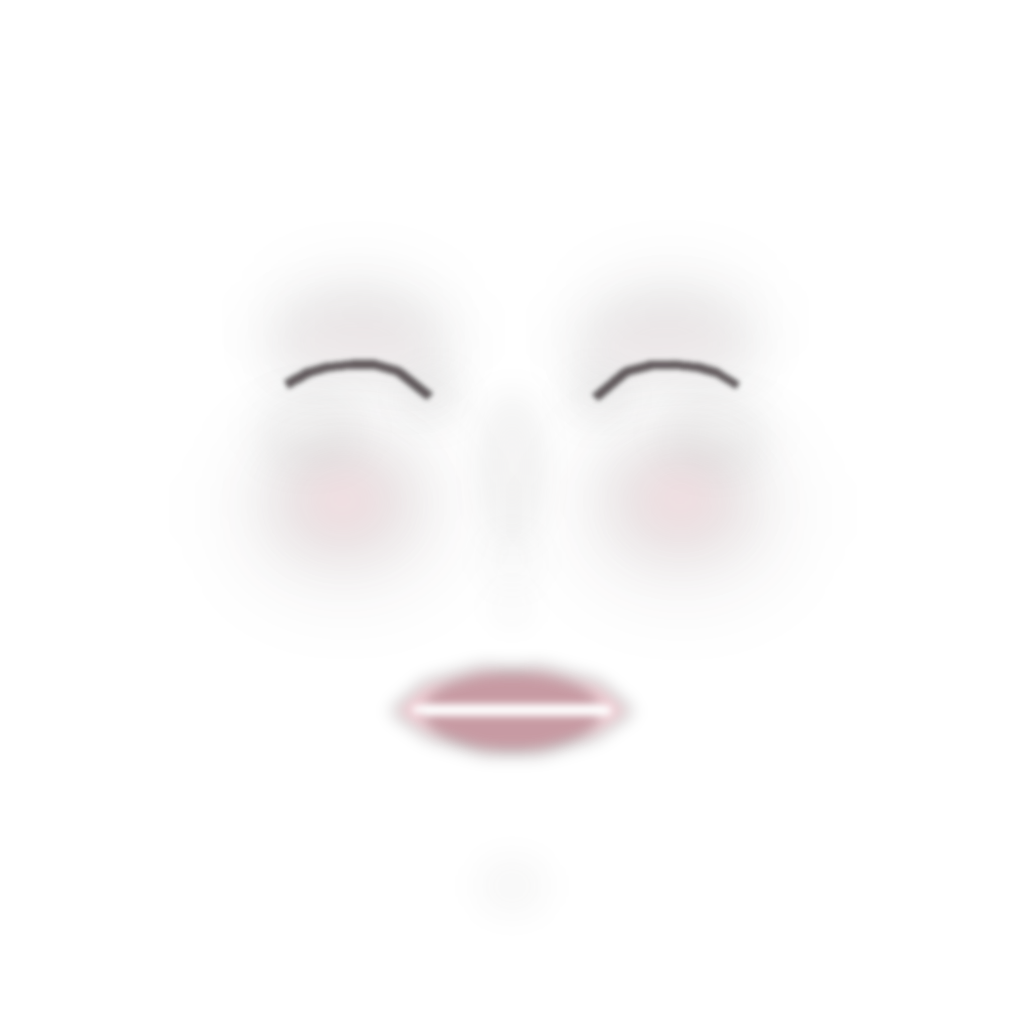
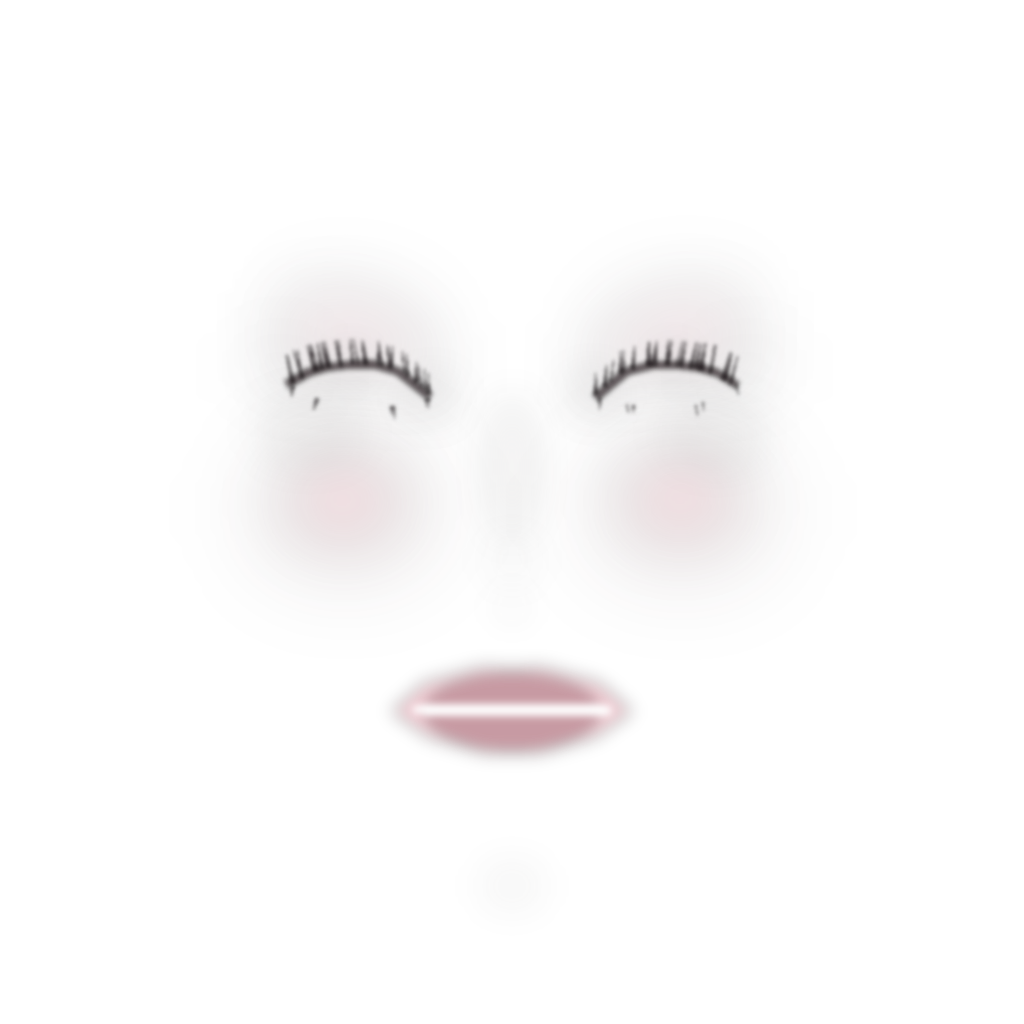
makeup: retune rail plates for realism + 20 reference-driven looks
Retuned coquette/goth/peach/cold_beauty/sunset/angel/hearts_freckles
(added missing lash layers, outer-V depth, shimmer). New realistic
skin-matching collection from the mup/ reference dump: korean_dewy,
chinese_classic, indian_bridal, bollywood, latina_glam, chola, pinup,
arab_kohl, siren_night, fox_eye, doe_eye, y2k_glow, nineties_brown,
eighties_pop, seventies_sun, cut_crease, halo_eye, editorial_violet,
soft_bridal, tribal_earth. All translucent mid-luma layered pigment for
the luminance-transfer blend (no opaque foundation washes).

Changed region(s): [[0.2812, 0.3125, 0.4375, 0.4062], [0.5625, 0.3125, 0.7188, 0.4062]]

diff --git a/tools/gen_makeup_elements.py b/tools/gen_makeup_elements.py
@@ -685,8 +685,12 @@ LOOKS = {
     ],
     'coquette': [
         ('blush', dict(style='cheeks', color=(255, 140, 160), alpha=48)),
-        ('shadow', S(lid=((225, 160, 175), 45), crease=((205, 135, 150), 38), inner=((255, 240, 245), 40))),
+        ('shadow', S(lid=((225, 160, 175), 45), crease=((205, 135, 150), 38),
+                     outer=((190, 115, 135), 32), inner=((255, 240, 245), 40),
+                     shimmer=((255, 246, 250), 26))),
         ('liner', dict(style='soft', alpha=170)),
+        ('lashes', dict(strength=0.7, style='doll')),
+        ('lashes', dict(strength=0.3, style='wispy', lower=True)),
         ('aegyo', dict(alpha=15)),
         ('lip', dict(style='bitten', color=(210, 80, 105), alpha=85)),
         ('highlight', dict(style='satin', color=(255, 250, 245), alpha=42)),
@@ -694,16 +698,21 @@ LOOKS = {
     'goth': [
         ('contour', dict(style='cool', alpha=45)),
         ('blush', dict(style='cheeks', color=(140, 70, 90), alpha=35)),
-        ('shadow', S(lid=((70, 40, 66), 95), crease=((50, 25, 45), 85), outer=((40, 18, 35), 75), inner=((160, 140, 155), 35))),
+        ('shadow', S(lid=((70, 40, 66), 95), crease=((50, 25, 45), 85), outer=((40, 18, 35), 75), inner=((160, 140, 155), 35),
+                     lower=((45, 22, 40), 60))),
         ('liner', dict(style='graphic', alpha=240)),
+        ('lashes', dict(strength=0.9, style='stage')),
+        ('lashes', dict(strength=0.35, style='wispy', lower=True)),
         ('brow', dict(color=(60, 45, 55), alpha=90, width=0.075)),
         ('lip', dict(style='matte', color=(58, 12, 32), alpha=170)),
         ('highlight', dict(style='pearl', color=(200, 190, 200), alpha=35)),
     ],
     'peach': [
         ('blush', dict(style='cheeks', color=(255, 140, 96), alpha=55)),
-        ('shadow', S(lid=((240, 160, 110), 48), crease=((220, 135, 90), 40), inner=((255, 240, 225), 40), shimmer=((255, 245, 235), 25))),
+        ('shadow', S(lid=((240, 160, 110), 48), crease=((220, 135, 90), 40),
+                     outer=((200, 115, 75), 34), inner=((255, 240, 225), 40), shimmer=((255, 245, 235), 25))),
         ('liner', dict(style='soft', alpha=175)),
+        ('lashes', dict(strength=0.6, style='wispy')),
         ('lip', dict(style='full', color=(245, 110, 80), alpha=100)),
         ('highlight', dict(style='satin', color=(255, 240, 220), alpha=45)),
     ],
@@ -712,6 +721,7 @@ LOOKS = {
         ('blush', dict(style='cheeks', color=(210, 160, 175), alpha=36)),
         ('shadow', S(lid=((150, 140, 160), 48), crease=((120, 110, 135), 40), outer=((100, 90, 115), 35), inner=((220, 215, 230), 40))),
         ('liner', dict(style='tightline', alpha=160)),
+        ('lashes', dict(strength=0.5, style='wispy')),
         ('brow', dict(color=(55, 45, 50), alpha=95, width=0.065)),
         ('lip', dict(style='matte', color=(150, 70, 80), alpha=105)),
         ('highlight', dict(style='pearl', color=(240, 235, 245), alpha=45)),
@@ -720,6 +730,7 @@ LOOKS = {
         ('blush', dict(style='band', color=(255, 120, 70), alpha=52)),
         ('shadow', S(lid=((235, 120, 60), 70), crease=((210, 95, 45), 58), outer=((180, 75, 35), 50), inner=((255, 230, 200), 45), shimmer=((255, 245, 220), 35))),
         ('liner', dict(style='wing', alpha=200)),
+        ('lashes', dict(strength=0.8, style='cat')),
         ('lip', dict(style='full', color=(210, 80, 55), alpha=105)),
         ('highlight', dict(style='satin', color=(255, 220, 170), alpha=52)),
     ],
@@ -728,6 +739,8 @@ LOOKS = {
         ('aegyo', dict(alpha=20)),
         ('shadow', S(lid=((240, 210, 220), 42), crease=((225, 185, 195), 35), inner=((255, 245, 248), 45), shimmer=((255, 255, 255), 35))),
         ('liner', dict(style='soft', alpha=165)),
+        ('lashes', dict(strength=0.55, style='wispy')),
+        ('lashes', dict(strength=0.25, style='wispy', lower=True)),
         ('brow', dict(color=(70, 50, 50), alpha=80, width=0.060)),
         ('lip', dict(style='gloss', color=(230, 130, 145), alpha=70)),
         ('highlight', dict(style='satin', color=(255, 250, 245), alpha=64)),
@@ -754,9 +767,257 @@ LOOKS = {
         ('freckles', dict(density=1.0, color=(170, 90, 80), alpha=95)),
         ('shadow', S(lid=((225, 140, 155), 45), crease=((205, 115, 130), 38), inner=((255, 240, 245), 40))),
         ('liner', dict(style='wing', alpha=200)),
+        ('lashes', dict(strength=0.7, style='doll')),
         ('aegyo', dict(alpha=14)),
         ('lip', dict(style='bitten', color=(225, 75, 95), alpha=92)),
         ('highlight', dict(style='satin', color=(255, 250, 245), alpha=45)),
+    ],
+
+    # ── realistic reference-driven collection (mup/ references) ─────────────
+    # All translucent, mid-luma, layered — the engine's luminance-transfer
+    # blend adapts pigment to the wearer's skin (no opaque foundation washes).
+    'korean_dewy': [   # 01: K-beauty — dewy base, straight soft brow, gradient coral lip
+        ('blush', dict(style='cheeks', color=(255, 150, 140), alpha=35)),
+        ('aegyo', dict(alpha=16)),
+        ('shadow', S(lid=((225, 170, 160), 40), crease=((205, 145, 140), 30),
+                     inner=((255, 245, 240), 40), shimmer=((255, 250, 245), 25))),
+        ('liner', dict(style='tightline', color=(60, 40, 36), alpha=150)),
+        ('lashes', dict(strength=0.5, style='wispy')),
+        ('brow', dict(color=(80, 60, 50), alpha=70, width=0.050, density=0.45)),
+        ('lip', dict(style='blurred', color=(230, 110, 100), alpha=95)),
+        ('highlight', dict(style='glass', color=(255, 250, 248), alpha=55)),
+    ],
+    'chinese_classic': [   # 03: porcelain base, precise wing, red lip
+        ('contour', dict(style='soft', alpha=25, areas=['cheek', 'nose'])),
+        ('blush', dict(style='lifted', color=(230, 130, 120), alpha=28)),
+        ('shadow', S(lid=((210, 170, 155), 35), crease=((185, 140, 125), 28),
+                     inner=((250, 240, 235), 38))),
+        ('liner', dict(style='wing', alpha=230)),
+        ('lashes', dict(strength=0.8, style='cat')),
+        ('brow', dict(color=(60, 45, 40), alpha=100, width=0.060, density=0.6)),
+        ('lip', dict(style='satin', color=(190, 30, 45), alpha=140,
+                     liner_color=(140, 18, 32))),
+        ('highlight', dict(style='satin', color=(255, 248, 245), alpha=40)),
+    ],
+    'indian_bridal': [   # 07: gold/rust shadow, kohl rim, red lip
+        ('contour', dict(style='warm', alpha=40)),
+        ('blush', dict(style='cheeks', color=(230, 120, 105), alpha=40)),
+        ('shadow', S(lid=((230, 180, 90), 65), crease=((190, 110, 60), 55),
+                     outer=((150, 80, 45), 45), inner=((255, 240, 200), 45),
+                     shimmer=((255, 230, 160), 40), lower=((60, 40, 40), 55))),
+        ('liner', dict(style='wing', alpha=235)),
+        ('lashes', dict(strength=1.0, style='stage')),
+        ('lashes', dict(strength=0.35, style='wispy', lower=True)),
+        ('brow', dict(color=(55, 38, 32), alpha=120, width=0.070, density=0.8)),
+        ('lip', dict(style='satin', color=(175, 25, 40), alpha=150,
+                     liner_color=(120, 20, 30))),
+        ('highlight', dict(style='satin', color=(255, 240, 210), alpha=50)),
+    ],
+    'bollywood': [   # 08: violet-blue smoke, kohl, bright pink lip
+        ('blush', dict(style='cheeks', color=(220, 120, 140), alpha=35)),
+        ('shadow', S(lid=((120, 90, 180), 60), crease=((80, 60, 140), 55),
+                     outer=((45, 35, 90), 50), inner=((230, 220, 255), 40),
+                     shimmer=((210, 200, 255), 35), lower=((90, 70, 150), 40))),
+        ('liner', dict(style='wing', alpha=230)),
+        ('lashes', dict(strength=1.0, style='stage')),
+        ('brow', dict(color=(50, 36, 32), alpha=115, width=0.068, density=0.7)),
+        ('lip', dict(style='gloss', color=(215, 85, 130), alpha=110)),
+        ('highlight', dict(style='satin', color=(245, 240, 255), alpha=45)),
+    ],
+    'latina_glam': [   # 11: bronze crease, fluffy brow, nude-brown lined gloss
+        ('contour', dict(style='warm', alpha=48)),
+        ('blush', dict(style='lifted', color=(225, 140, 115), alpha=42)),
+        ('shadow', S(lid=((215, 165, 115), 55), crease=((180, 130, 85), 50),
+                     outer=((145, 100, 60), 45), inner=((250, 235, 215), 40),
+                     shimmer=((255, 235, 200), 30))),
+        ('liner', dict(style='wing', alpha=220)),
+        ('lashes', dict(strength=0.95, style='stage')),
+        ('lashes', dict(strength=0.3, style='wispy', lower=True)),
+        ('brow', dict(color=(65, 45, 38), alpha=110, width=0.068, density=0.7)),
+        ('lip', dict(style='lined_gloss', color=(185, 130, 110), alpha=110,
+                     liner_color=(130, 85, 70))),
+        ('highlight', dict(style='satin', color=(255, 245, 230), alpha=52)),
+    ],
+    'chola': [   # 12: thin high arch, long wing, dark-lined nude lip
+        ('contour', dict(style='soft', alpha=40)),
+        ('blush', dict(style='sculpted', color=(210, 130, 115), alpha=30)),
+        ('shadow', S(lid=((205, 160, 130), 40), crease=((175, 125, 95), 35),
+                     inner=((245, 230, 215), 35))),
+        ('liner', dict(style='siren', alpha=225)),
+        ('lashes', dict(strength=0.85, style='cat')),
+        ('brow', dict(color=(45, 30, 28), alpha=130, width=0.035, density=0.5)),
+        ('lip', dict(style='lined_gloss', color=(160, 95, 80), alpha=130,
+                     liner_color=(90, 45, 40))),
+        ('highlight', dict(style='satin', color=(250, 240, 230), alpha=38)),
+    ],
+    'pinup': [   # 19: vintage matte, bold wing, red lip
+        ('contour', dict(style='soft', alpha=30, areas=['cheek'])),
+        ('blush', dict(style='apple', color=(235, 130, 120), alpha=38)),
+        ('shadow', S(lid=((235, 220, 205), 30), crease=((200, 170, 150), 28),
+                     inner=((250, 245, 240), 35))),
+        ('liner', dict(style='wing', alpha=235)),
+        ('lashes', dict(strength=0.9, style='doll')),
+        ('brow', dict(color=(60, 45, 38), alpha=105, width=0.055, density=0.6)),
+        ('lip', dict(style='matte', color=(190, 25, 40), alpha=170,
+                     liner_color=(140, 15, 30))),
+        ('highlight', dict(style='satin', color=(255, 248, 242), alpha=32)),
+    ],
+    'arab_kohl': [   # 24/25: kohl-rimmed smoke, angular brow, rose-brown lip
+        ('contour', dict(style='warm', alpha=42)),
+        ('blush', dict(style='cheeks', color=(215, 130, 115), alpha=32)),
+        ('shadow', S(lid=((215, 170, 120), 55), crease=((170, 120, 85), 55),
+                     outer=((120, 80, 60), 55), inner=((245, 230, 210), 35),
+                     lower=((60, 40, 40), 70))),
+        ('liner', dict(style='siren', alpha=235)),
+        ('lashes', dict(strength=1.0, style='stage')),
+        ('lashes', dict(strength=0.4, style='wispy', lower=True)),
+        ('brow', dict(color=(45, 32, 28), alpha=125, width=0.070, density=0.75)),
+        ('lip', dict(style='satin', color=(165, 95, 90), alpha=120,
+                     liner_color=(120, 65, 62))),
+        ('highlight', dict(style='satin', color=(255, 242, 225), alpha=45)),
+    ],
+    'siren_night': [   # 60: elongated wing, mauve-violet smoke, deep gloss
+        ('contour', dict(style='cool', alpha=35)),
+        ('blush', dict(style='lifted', color=(200, 120, 140), alpha=28)),
+        ('shadow', S(lid=((165, 120, 165), 55), crease=((130, 90, 140), 50),
+                     outer=((95, 60, 105), 48), inner=((240, 225, 245), 40),
+                     shimmer=((230, 215, 245), 30), lower=((120, 85, 130), 35))),
+        ('liner', dict(style='siren', alpha=230)),
+        ('lashes', dict(strength=1.0, style='cat')),
+        ('brow', dict(color=(55, 40, 45), alpha=105, width=0.060, density=0.65)),
+        ('lip', dict(style='gloss', color=(140, 40, 70), alpha=130,
+                     liner_color=(95, 25, 50))),
+        ('highlight', dict(style='pearl', color=(245, 240, 250), alpha=45)),
+    ],
+    'fox_eye': [   # 61: lifted bronze outer corner, straight elongated liner
+        ('contour', dict(style='warm', alpha=30, areas=['cheek', 'temple'])),
+        ('blush', dict(style='lifted', color=(225, 150, 130), alpha=25)),
+        ('shadow', S(lid=((210, 165, 125), 40), crease=((180, 135, 95), 38),
+                     outer=((150, 105, 70), 45), inner=((250, 240, 225), 35))),
+        ('liner', dict(style='siren', alpha=225)),
+        ('lashes', dict(strength=0.9, style='cat')),
+        ('brow', dict(color=(70, 50, 42), alpha=95, width=0.055, density=0.55)),
+        ('lip', dict(style='satin', color=(195, 140, 125), alpha=90)),
+        ('highlight', dict(style='satin', color=(255, 245, 235), alpha=42)),
+    ],
+    'doe_eye': [   # 62: round open eye, bright inner/lower, doll lashes, peach
+        ('blush', dict(style='apple', color=(250, 150, 155), alpha=40)),
+        ('aegyo', dict(alpha=22)),
+        ('shadow', S(lid=((240, 195, 175), 40), crease=((220, 160, 145), 30),
+                     inner=((255, 250, 245), 55), lower=((255, 245, 240), 30))),
+        ('liner', dict(style='tightline', color=(50, 35, 32), alpha=150)),
+        ('lashes', dict(strength=0.95, style='doll')),
+        ('lashes', dict(strength=0.45, style='doll', lower=True)),
+        ('brow', dict(color=(75, 55, 48), alpha=80, width=0.055, density=0.5)),
+        ('lip', dict(style='gloss', color=(240, 140, 140), alpha=85)),
+        ('highlight', dict(style='pearl', color=(255, 248, 248), alpha=50)),
+    ],
+    'y2k_glow': [   # 66: coral-orange wash, gold shimmer lid, juicy gloss
+        ('blush', dict(style='sunkissed', color=(255, 140, 95), alpha=40)),
+        ('shadow', S(lid=((245, 190, 100), 55), crease=((235, 120, 70), 50),
+                     outer=((210, 100, 55), 40), inner=((255, 245, 220), 45),
+                     shimmer=((255, 240, 200), 45))),
+        ('liner', dict(style='soft', color=(70, 45, 40), alpha=170)),
+        ('lashes', dict(strength=0.7, style='wispy')),
+        ('brow', dict(color=(85, 55, 40), alpha=85, width=0.058, density=0.55)),
+        ('lip', dict(style='gloss', color=(245, 170, 140), alpha=60)),
+        ('highlight', dict(style='glass', color=(255, 245, 225), alpha=55)),
+    ],
+    'nineties_brown': [   # 65: matte taupe monochrome, brown liner + lip
+        ('contour', dict(style='soft', alpha=35)),
+        ('blush', dict(style='cheeks', color=(200, 130, 110), alpha=28)),
+        ('shadow', S(lid=((170, 135, 115), 45), crease=((140, 105, 90), 42),
+                     outer=((115, 85, 70), 38), inner=((225, 210, 200), 30))),
+        ('liner', dict(style='soft', color=(60, 40, 35), alpha=185)),
+        ('lashes', dict(strength=0.6, style='wispy')),
+        ('brow', dict(color=(55, 40, 35), alpha=95, width=0.040, density=0.5)),
+        ('lip', dict(style='matte', color=(135, 85, 70), alpha=150,
+                     liner_color=(95, 60, 50))),
+        ('highlight', dict(style='satin', color=(245, 238, 230), alpha=30)),
+    ],
+    'eighties_pop': [   # 64: blue-purple shadow to brow, draped pink blush, fuchsia
+        ('blush', dict(style='draped', color=(245, 120, 150), alpha=50)),
+        ('shadow', S(lid=((90, 120, 220), 60), crease=((120, 80, 190), 55),
+                     outer=((80, 50, 150), 50), inner=((220, 225, 255), 40),
+                     shimmer=((200, 215, 255), 40))),
+        ('liner', dict(style='wing', alpha=220)),
+        ('lashes', dict(strength=0.9, style='stage')),
+        ('brow', dict(color=(65, 50, 45), alpha=100, width=0.065, density=0.6)),
+        ('lip', dict(style='gloss', color=(215, 60, 120), alpha=120)),
+        ('highlight', dict(style='pearl', color=(240, 240, 255), alpha=48)),
+    ],
+    'seventies_sun': [   # 63: warm earth eye, 70s lower lashes, peach gloss
+        ('blush', dict(style='sunkissed', color=(245, 150, 95), alpha=45)),
+        ('shadow', S(lid=((215, 160, 105), 45), crease=((185, 130, 85), 40),
+                     outer=((160, 105, 70), 35), inner=((255, 240, 215), 40),
+                     lower=((170, 120, 80), 35))),
+        ('liner', dict(style='soft', color=(65, 45, 38), alpha=165)),
+        ('lashes', dict(strength=0.8, style='doll')),
+        ('lashes', dict(strength=0.4, style='wispy', lower=True)),
+        ('brow', dict(color=(75, 55, 45), alpha=85, width=0.058, density=0.5)),
+        ('lip', dict(style='gloss', color=(240, 150, 120), alpha=95)),
+        ('highlight', dict(style='satin', color=(255, 235, 200), alpha=55)),
+    ],
+    'cut_crease': [   # 57: sharp taupe crease over champagne lid
+        ('contour', dict(style='soft', alpha=30)),
+        ('blush', dict(style='lifted', color=(225, 145, 125), alpha=30)),
+        ('shadow', S(lid=((245, 225, 200), 50), crease=((150, 115, 95), 75),
+                     outer=((120, 90, 75), 60), inner=((255, 245, 235), 45),
+                     shimmer=((255, 250, 240), 35))),
+        ('liner', dict(style='wing', alpha=225)),
+        ('lashes', dict(strength=0.9, style='stage')),
+        ('brow', dict(color=(60, 45, 38), alpha=105, width=0.060, density=0.6)),
+        ('lip', dict(style='lined_gloss', color=(185, 135, 120), alpha=100,
+                     liner_color=(140, 95, 85))),
+        ('highlight', dict(style='satin', color=(255, 248, 240), alpha=45)),
+    ],
+    'halo_eye': [   # 58: copper-gold center pop, soft brown edges
+        ('blush', dict(style='cheeks', color=(240, 140, 120), alpha=35)),
+        ('shadow', S(lid=((235, 175, 95), 60), crease=((160, 100, 60), 45),
+                     outer=((140, 85, 50), 50), inner=((255, 240, 215), 40),
+                     shimmer=((255, 225, 160), 50))),
+        ('liner', dict(style='soft', color=(55, 40, 35), alpha=180)),
+        ('lashes', dict(strength=0.75, style='wispy')),
+        ('brow', dict(color=(70, 50, 42), alpha=95, width=0.058, density=0.55)),
+        ('lip', dict(style='satin', color=(185, 125, 120), alpha=100)),
+        ('highlight', dict(style='satin', color=(255, 240, 215), alpha=50)),
+    ],
+    'editorial_violet': [   # 10/67: violet-magenta graphic eye, quiet cheek, muted lip
+        ('contour', dict(style='cool', alpha=25, areas=['cheek'])),
+        ('blush', dict(style='cheeks', color=(205, 130, 160), alpha=25)),
+        ('shadow', S(lid=((170, 70, 160), 65), crease=((130, 50, 120), 55),
+                     outer=((95, 35, 85), 50), inner=((240, 225, 250), 35),
+                     lower=((150, 60, 140), 40))),
+        ('liner', dict(style='graphic', alpha=225)),
+        ('lashes', dict(strength=0.6, style='wispy')),
+        ('brow', dict(color=(50, 40, 45), alpha=95, width=0.055, density=0.55)),
+        ('lip', dict(style='velvet', color=(130, 70, 90), alpha=120)),
+        ('highlight', dict(style='pearl', color=(250, 245, 255), alpha=38)),
+    ],
+    'soft_bridal': [   # 51/53: rose shimmer, doll lash, rose-red satin lip
+        ('blush', dict(style='cheeks', color=(245, 145, 150), alpha=42)),
+        ('aegyo', dict(alpha=10)),
+        ('shadow', S(lid=((240, 180, 185), 55), crease=((210, 140, 150), 42),
+                     outer=((185, 110, 125), 35), inner=((255, 245, 248), 50),
+                     shimmer=((255, 250, 252), 40))),
+        ('liner', dict(style='wing', alpha=215)),
+        ('lashes', dict(strength=1.0, style='doll')),
+        ('lashes', dict(strength=0.3, style='wispy', lower=True)),
+        ('brow', dict(color=(65, 48, 42), alpha=95, width=0.058, density=0.55)),
+        ('lip', dict(style='satin', color=(200, 60, 80), alpha=135,
+                     liner_color=(160, 40, 60))),
+        ('highlight', dict(style='pearl', color=(255, 248, 248), alpha=55)),
+    ],
+    'tribal_earth': [   # 55: bronze-brown eye, strong straight brow, brown-nude matte
+        ('contour', dict(style='warm', alpha=45)),
+        ('blush', dict(style='sculpted', color=(200, 125, 95), alpha=35)),
+        ('shadow', S(lid=((190, 140, 95), 50), crease=((150, 105, 70), 48),
+                     outer=((120, 80, 55), 42), inner=((240, 220, 190), 30))),
+        ('liner', dict(style='soft', color=(45, 32, 28), alpha=190)),
+        ('lashes', dict(strength=0.65, style='wispy')),
+        ('brow', dict(color=(45, 32, 28), alpha=125, width=0.075, density=0.8)),
+        ('lip', dict(style='matte', color=(140, 90, 75), alpha=135)),
+        ('highlight', dict(style='satin', color=(245, 230, 205), alpha=40)),
     ],
     'clean_girl': [
         ('blush', dict(style='lifted', color=(255, 170, 165), alpha=34)),
